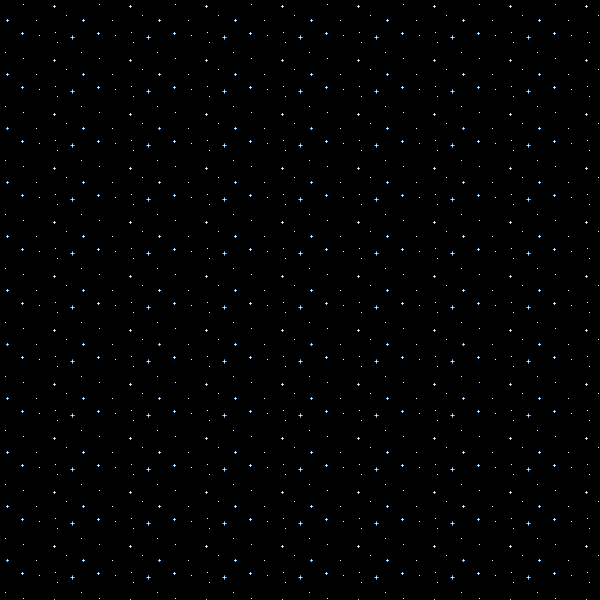
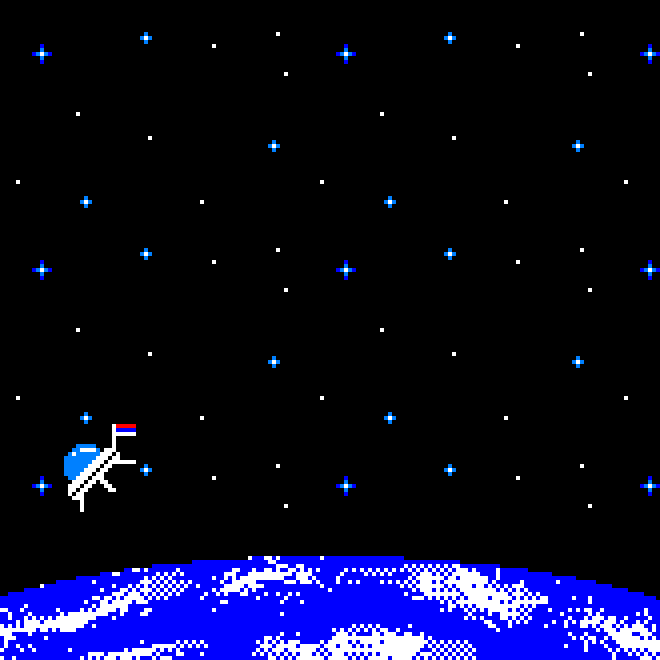
new background

diff --git a/my_game/main.py b/my_game/main.py
@@ -57,15 +57,16 @@ class Game:
         self.get_current_time = True
 
     def load_data(self):
-        self.player_img = pg.image.load(path.join(img_folder, "SHIP.png")).convert()        
-        self.background_img = pg.image.load(path.join(img_folder, "BACKGROUND.png")).convert()  
-        
-        self.background_img_rect = self.background_img.get_rect() 
-
-        self.background_img_rect.x = 0
-        self.background_img_rect.y = 0 
-
-        screen.blit(background_img, background_img_rect)
+        # player sprite
+        self.player_img = pg. image.load(path.join(img_folder, "SHIP.png")).convert()  
+        # enemy sprite
+        self.enemy_img = pg. image.load(path.join(img_folder, "ENEMY.png")).convert()  
+        # background sprite  
+        self.background_img = pg.image.load(path.join(img_folder, "BACKGROUND.png")).convert()
+        self.background_img_rect = self.background_img.get_rect()
+        # death screen sprite
+        self.death_img = pg.image.load(path.join(img_folder, "DEATH.png")).convert()
+        self.death_img_rect = self.death_img.get_rect()
         # self.bullet_img = pg.image.load(path.join(img_folder, "bullet.png")).convert()        
     def spawn_enemies(self):
         for i in range(1,14):
@@ -73,7 +74,7 @@ class Game:
             m = Mob(30,30,(GREEN))
             # rantint sets direction
             # vec sets velocity between set range
-            m.vel = vec(randint(1,4),randint(1,3))
+            m.vel = vec(randint(1,10),randint(1,10))
             self.all_sprites.add(m)
             self.enemies.add(m)
     def spawn_enemies_less(self):
@@ -151,11 +152,11 @@ class Game:
         hits = pg.sprite.spritecollide(self.player, self.enemies, False)
         if hits:
             if hits[0]:
-                # hits[0].kill()
+                hits[0].kill()
                 # print("enemy hit")
                 # print(self.health)
                 # Enemy damage
-                self.health -= 1
+                self.health -= 10
         # Group collide checks if two variables collide
         # If they both collide and are set to True, they dissapear
         playerhits = pg.sprite.groupcollide(self.bullets, self.enemies, True, True)
@@ -216,6 +217,7 @@ class Game:
     # Draw Sceen Text
     def draw(self):
         self.screen.fill(BLACK)
+        self.screen.blit(self.background_img, self.background_img_rect)
         # draw players, enemies, etc...
         self.all_sprites.draw(self.screen)
         # draw standard text
@@ -237,7 +239,7 @@ class Game:
             self.draw_text("YOUR SCORE: " + (str(self.score)), 42, WHITE, WIDTH/2, HEIGHT/2+50)
             self.draw_text("YOUR TIME: " + (str(self.deathtime)), 42, WHITE, WIDTH/2, HEIGHT/2+90)
             # Draw restart game text
-            # self.draw_text("Press 'R' to Restart", 42, WHITE, WIDTH/2, HEIGHT/2+200)
+            self.draw_text("Press 'esc' to Exit", 42, WHITE, WIDTH/2, HEIGHT/2+200)
             # Draws parameters
             # self.draw_text(str(self.score), 42, WHITE, WIDTH/3+250, HEIGHT/2+50)
             # self.draw_text(str(self.deathtime), 42, WHITE, WIDTH/3+250, HEIGHT/2+90)

diff --git a/my_game/sprites.py b/my_game/sprites.py
@@ -46,6 +46,12 @@ class Player(Sprite):
             self.acc.x = -PLAYER_ACC
         if keystate[pg.K_d]:
             self.acc.x = PLAYER_ACC
+        # Quit game
+        if keystate[pg.K_ESCAPE]:
+            pg.quit()
+        # Restart Game
+        if keystate[pg.K_r]:
+            g.new(self)
         # Firing Controls
         if keystate[pg.K_SPACE]:
             self.fire()
@@ -60,7 +66,7 @@ class Player(Sprite):
         # distance_x = targetx - self.rect.x
         # distance_y = targety - self.rect.y
         now = pg.time.get_ticks()
-        if now - self.last_update > 400:
+        if now - self.last_update > 300:
             self.last_update = now
             speed_x = 0 
             speed_y = -23
@@ -102,6 +108,9 @@ class Player(Sprite):
 class Mob(Sprite):
     def __init__(self,width,height, color):
         Sprite.__init__(self)
+        
+        # self.image = pg.transform.scale(self.game.enemy_img, (48*2,30*2))
+        # self.image.set_colorkey(WHITE)
         self.width = width
         self.height = height
         self.image = pg.Surface((self.width,self.height))
